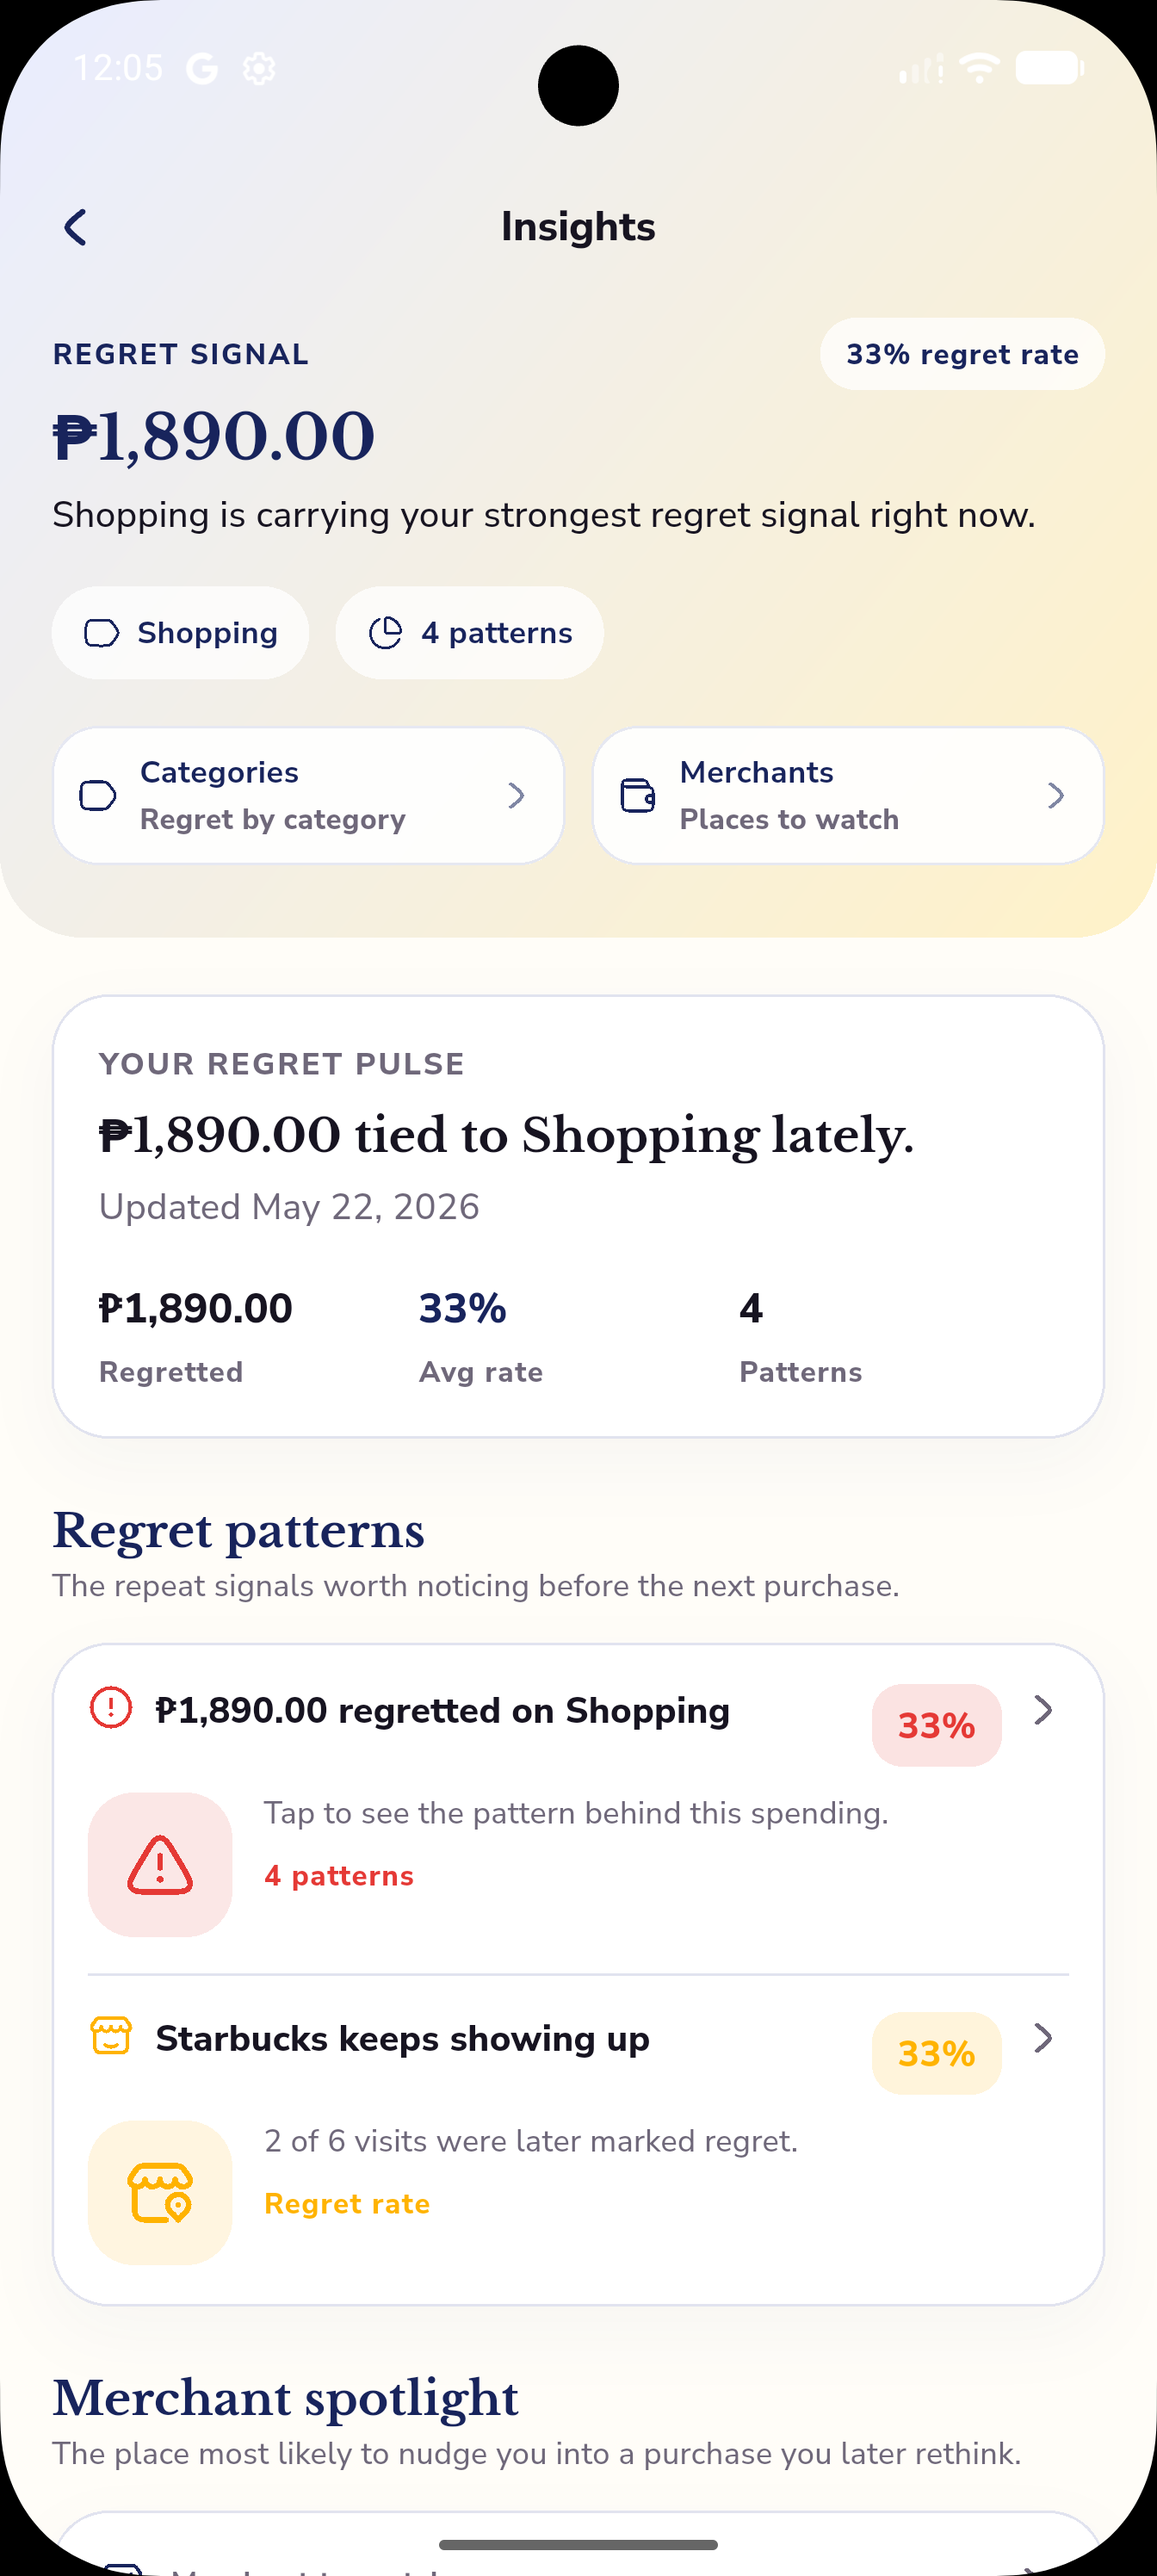
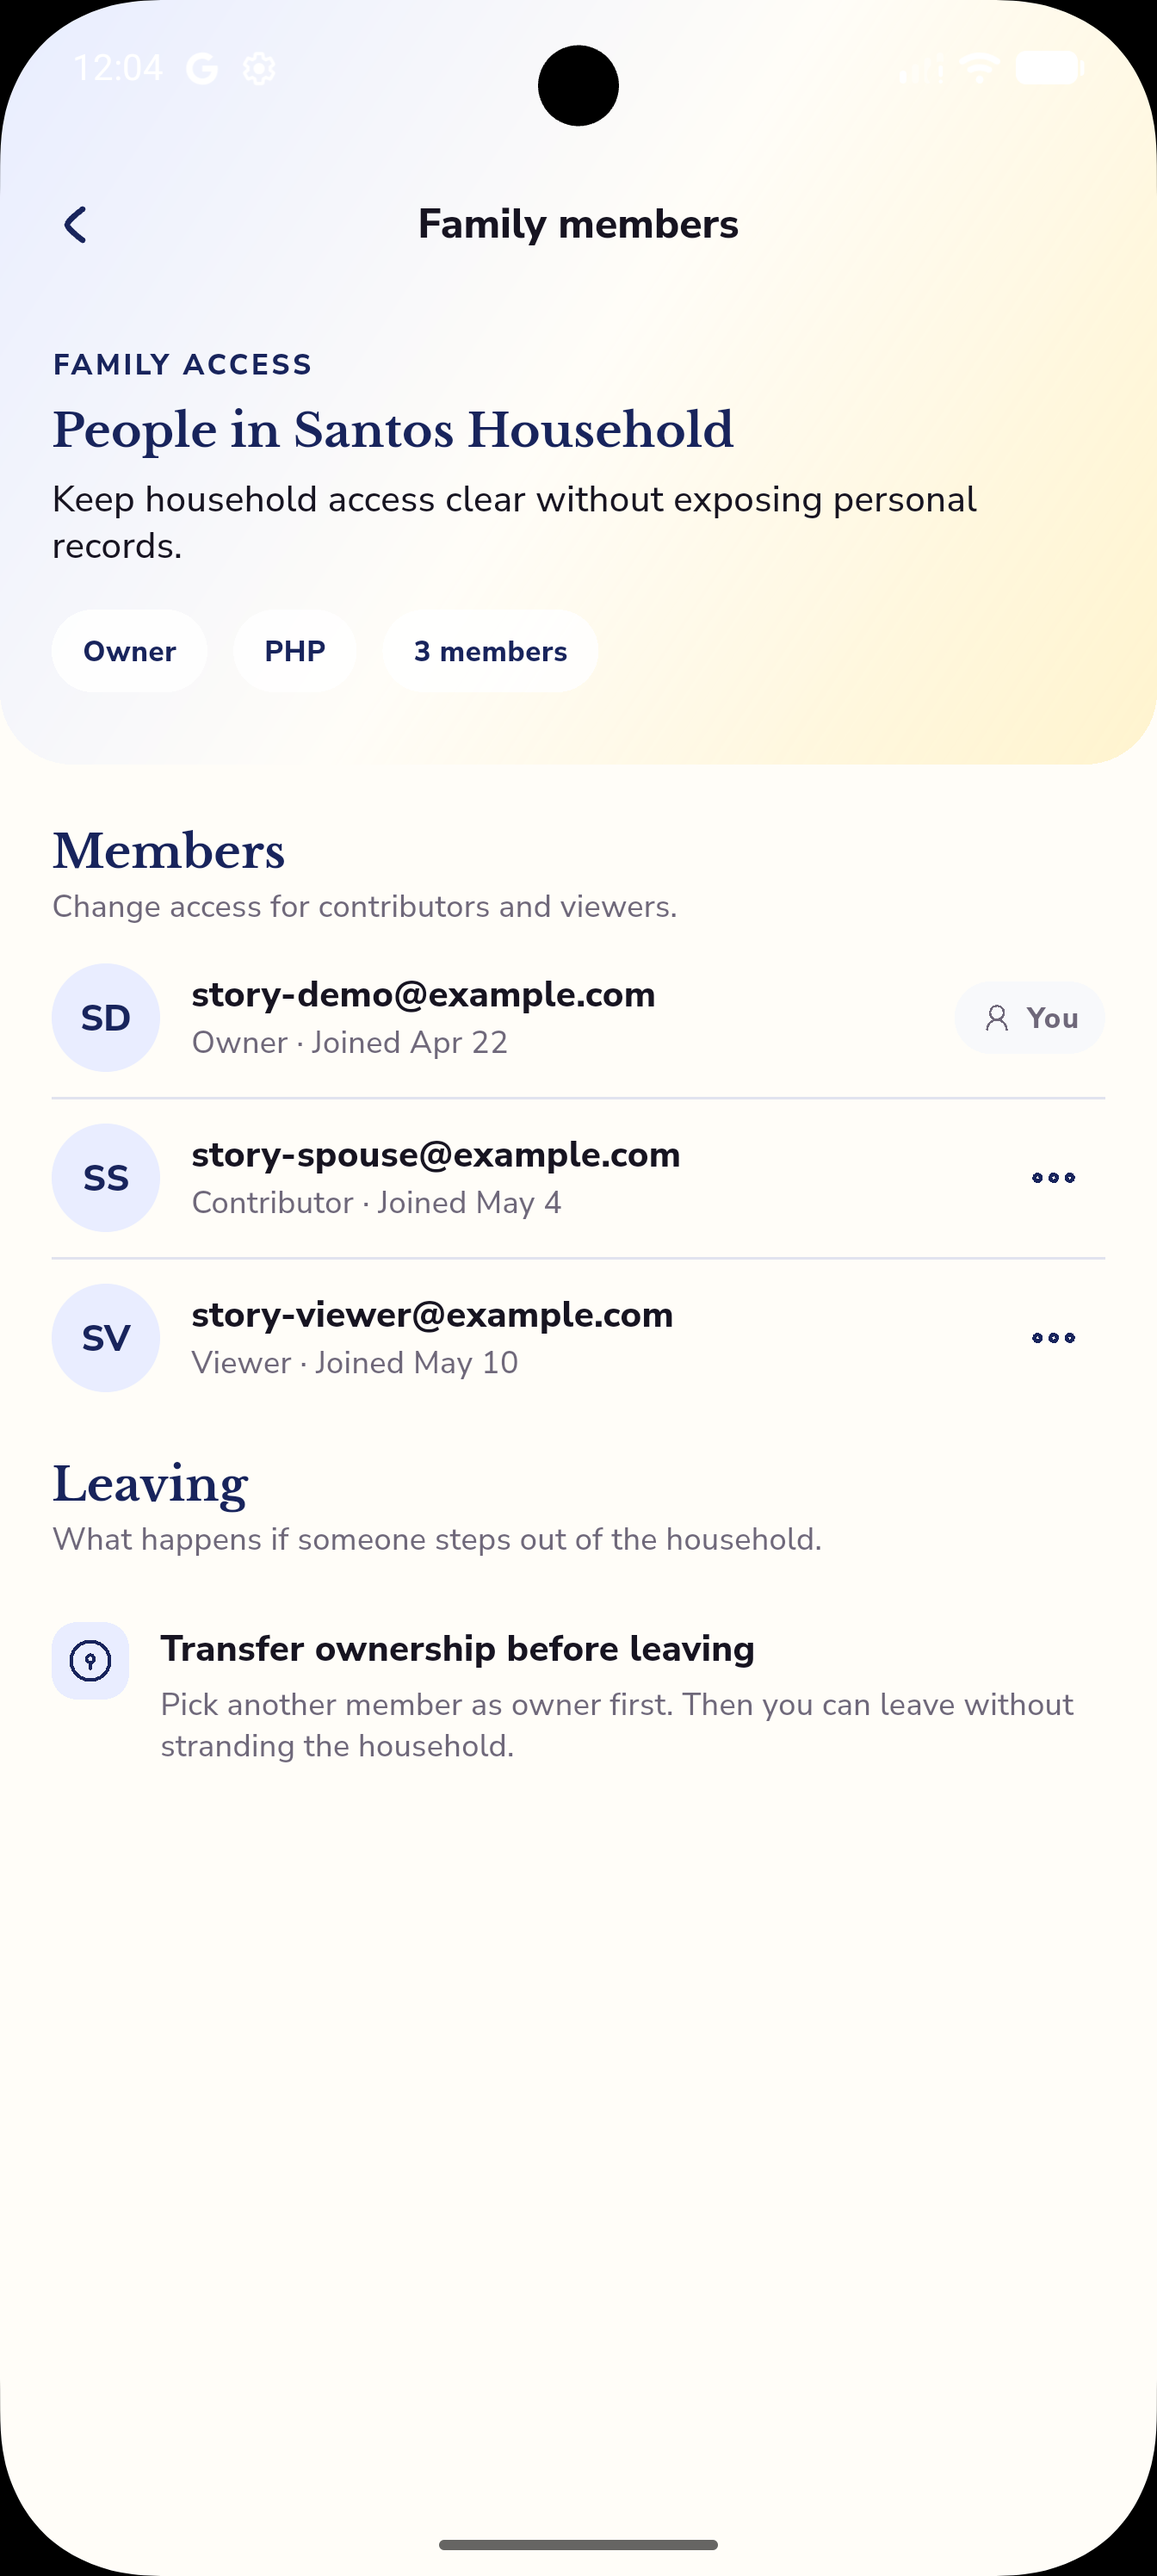
fix(web): polish homepage screenshot details

diff --git a/web/src/styles/global.css b/web/src/styles/global.css
@@ -268,7 +268,9 @@ body {
 
 .device-shot-image {
   display: block;
-  width: 100%;
+  width: calc(100% + 16px);
+  max-width: none;
+  margin: -8px;
   border-radius: 27px;
 }
 
